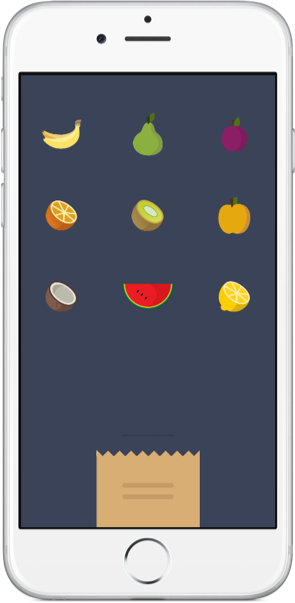
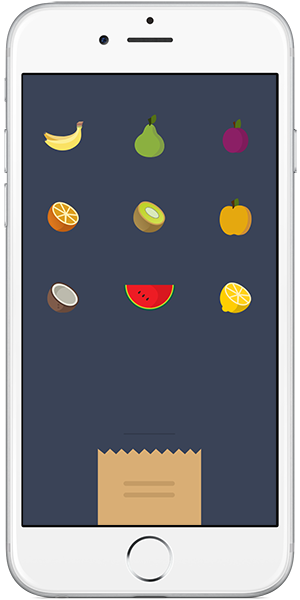
without App Store button, new iPhone DrugAndBuy

diff --git a/screen.css b/screen.css
@@ -32,7 +32,7 @@ section.team article{
 
 /* Section - Product */
 section.product{
-	background: #3A4357 url(iPhoneDragAndBuy.png) no-repeat 73% 70px;
+	background: #3A4357 url(iPhoneDragAndBuy.png) no-repeat 73% 0px;
 }
 
 section product article{
@@ -48,15 +48,18 @@ section.product article h2{
 }
 section.product article p{
 	width: 470px;
-	padding-bottom: 80px;
+/* 	padding-bottom: 80px; MARK: WITH APPSTORE BUTTON*/ 
+	padding-bottom: 50px; 
 	color: #F8F8F8;
 	font-size: 1.2em;
 }
+
 section.product article a.buttonAppStore{
 	position: relative;
 	display: block; 
-	background: url(appStore.png) no-repeat 0 0;
+/* 	background: url(appStore.png) no-repeat 0 0; MARK: WITH APPSTORE BUTTON*/
 	padding-bottom: 170px;
+	color: #F8F8F8;
 }
 
 /* Section - contact */
@@ -79,13 +82,18 @@ footer p{
 /* Media Queries */
 @media screen and (max-width: 1380px){
 	section { padding: 0 16%; }
-	section.product{ background: #3A4357 url(iPhoneDragAndBuy.png) no-repeat 85% 70px;}
+	section.product{ background: #3A4357 url(iPhoneDragAndBuy.png) no-repeat 85% 0px;}
+}
+
+@media screen and (max-width: 1146px){
+	section { padding: 0 11%; }
+	section.product{ background: #3A4357 url(iPhoneDragAndBuy.png) no-repeat 92% 0px;}
 }
 
 @media screen and (max-width: 1000px){
 	section.product{ 
-		height: 1250px; padding: 0;
-		background: #3A4357 url(iPhoneDragAndBuy.png) no-repeat center 90%; 
+		height: 1200px; padding: 0;
+		background: #3A4357 url(iPhoneDragAndBuy.png) no-repeat center 100%; 
 		text-align: center;
 	}
 	section.product article h2{
@@ -95,20 +103,24 @@ footer p{
 		display: inline-block;
 		padding-bottom: 40px;
 	}
+/*
 	section.product article a.buttonAppStore{
 		background: url(appStore.png) no-repeat center 0;
-	}
+	} MARK: WITH APPSTORE BUTTON
+*/
 }
 
 @media screen and (max-width: 720px){
-	header{ background-size: 510px; height: 350px; 
-/* 		background: #93E1FF url(logo510.png) no-repeat center center; */
+	header{ 
+		background-size: 510px; 
+		height: 350px; 
+
 	}
 }
 
 @media screen and (max-width: 570px){
 	/* Header */
-	header{ height: 260px;  background-size: 300px; /* background: #93E1FF url(logo300.png) no-repeat center center; */ }
+	header{ height: 260px;  background-size: 300px; }
 	
 	/* Section - Team */
 	section.team article{
@@ -120,21 +132,27 @@ footer p{
 	}
 	
 	/* Section - Product */
-	section.product{ height: 900px; background-size: 220px; }
+	section.product{ height: 870px; background-size: 300px; }
 	section.product article h2{
+		display: block;
 		width: auto;
-		font-size: 1.6em;
+		font-size: 1.5em;
 		padding-top: 50px;
 	} 
 	section.product article p{
 		width: 280px;
 		padding-bottom: 30px;
 		color: #F8F8F8;
-		font-size: .8em;
+		font-size: 0.8em;
 	}
+	section.product article a{
+		font-size: 0.9em;
+	}
+/*
 	section.product article a.buttonAppStore{
 		background-size: 140px;
-	}
+	} MARK: WITH APPSTORE BUTTON
+*/
 	
 	/* Section - Contact */
 	section.contact p {

diff --git a/index.html b/index.html
@@ -31,7 +31,8 @@
 					<p>
 						«Тащи и покупай» — это не просто список покупок, а новый взгляд на рутинную задачу. Ничего лишнего: только продукт и корзина. 
 					</p>
-					<a href="#" title="Загрузитe из App Store" class="buttonAppStore"></a>
+<!-- 					<a href="#" title="Загрузитe из App Store" class="buttonAppStore"></a> -->
+					<a class="buttonAppStore">Скоро в App Store</a>
 				</article>
 				
 			</section>
